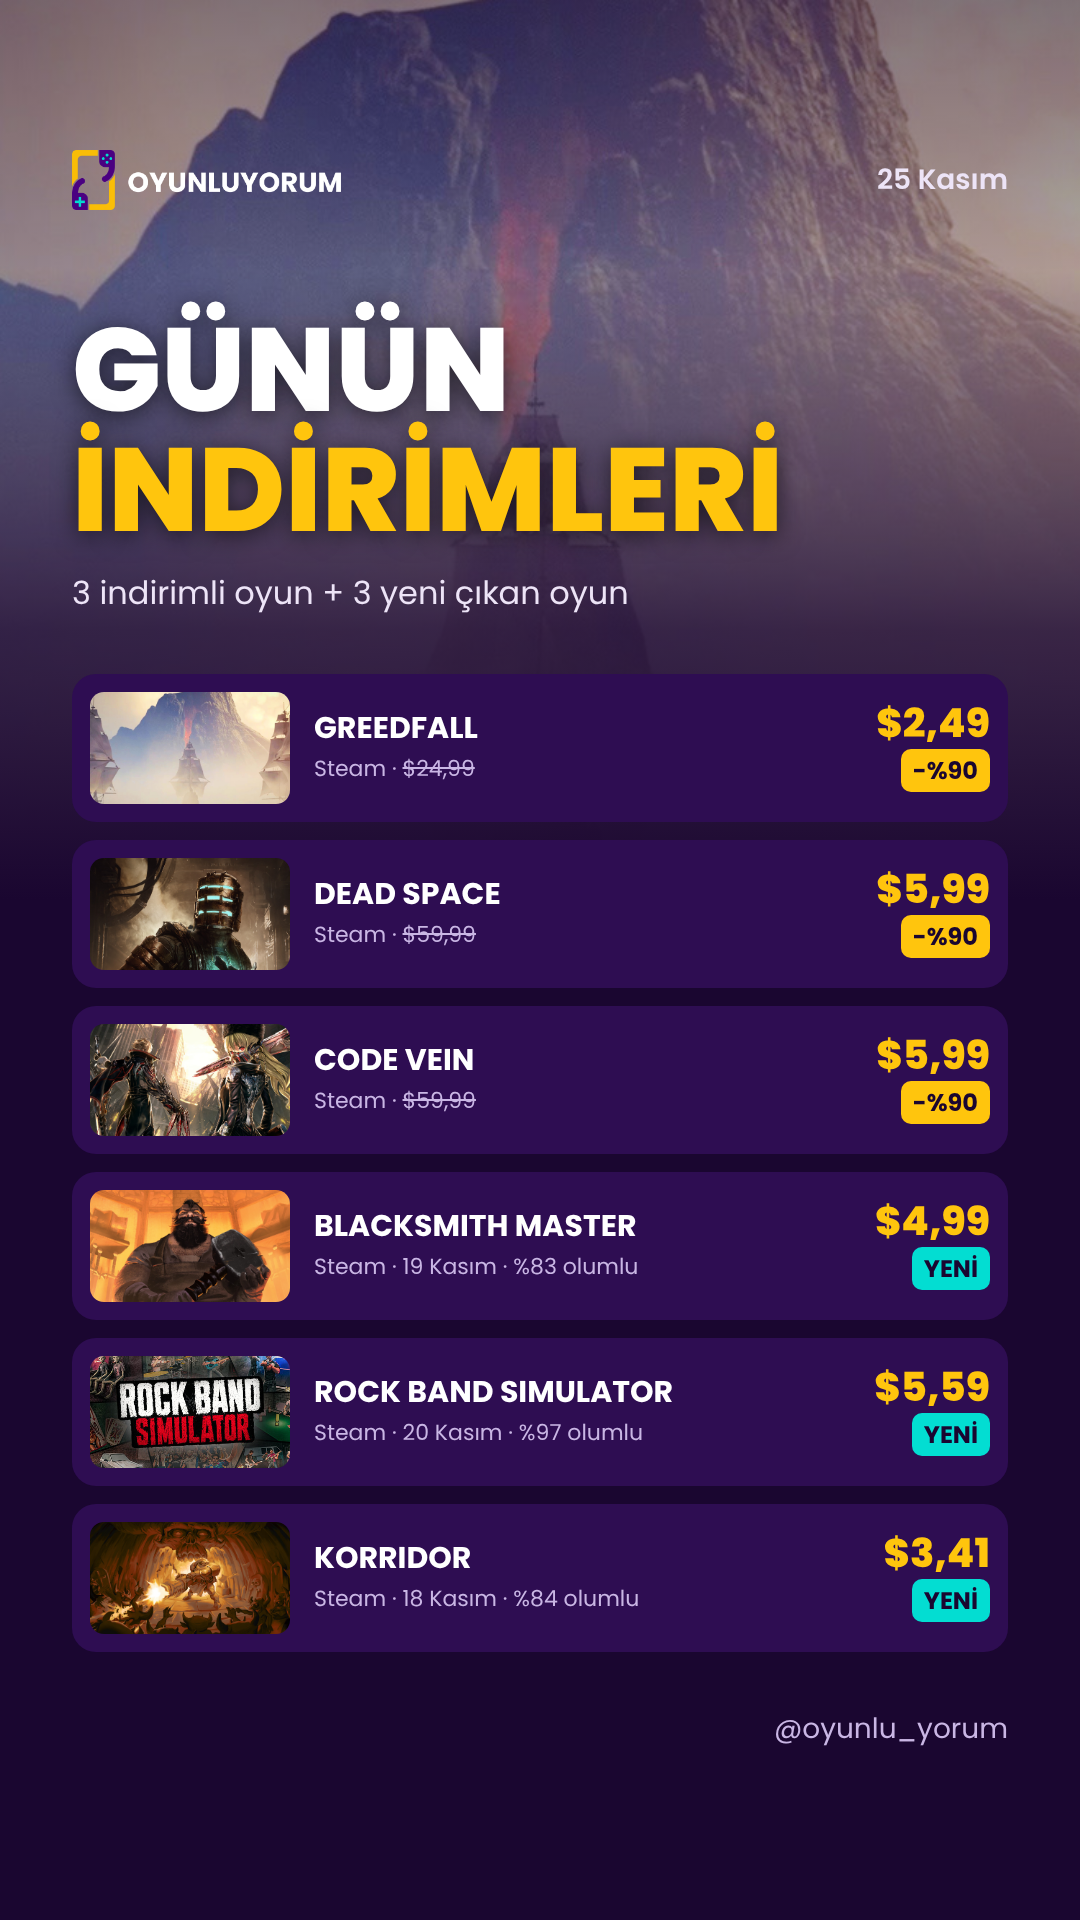
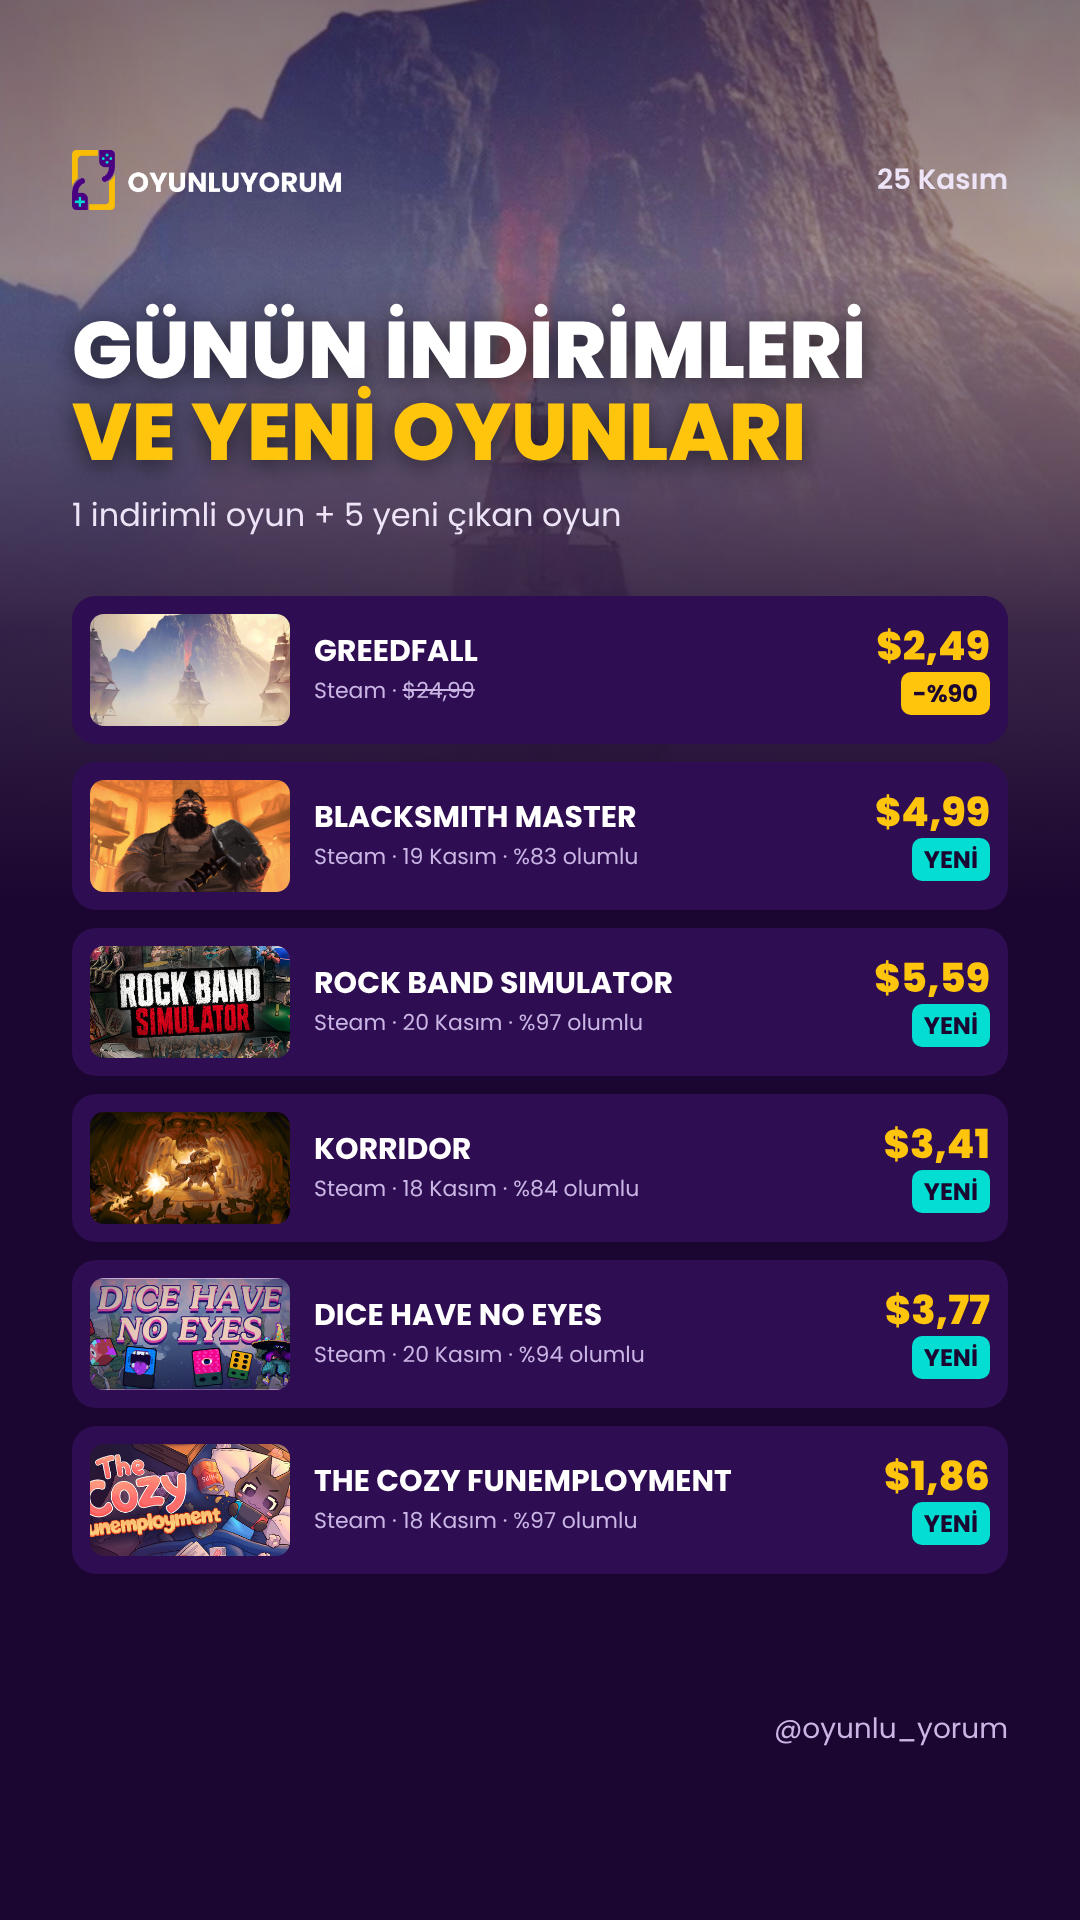
Karma story başlığı: Günün indirimleri ve yeni oyunları
Claude-Session: https://claude.ai/code/session_01Cfy9VhS6ocYTBfpm8yoTjW

Changed region(s): [[0.0611, 0.1562, 0.9472, 0.875]]

diff --git a/tools/render_story.py b/tools/render_story.py
@@ -14,6 +14,7 @@ story.json:
   ]
 }
 En fazla 6 satır. "free": true satırı sarı ve "Ücretsiz" yazılı çizilir.
+Satırlardan biri "new_release" ise başlık otomatik olarak "Günün indirimleri / ve yeni oyunları" olur.
 "new_release": true satırı yeni çıkan (indirimsiz) oyundur: "new" fiyatı ve "info" (örn. "23 Kasım · %99 olumlu")
 gösterilir, indirim rozeti yerine turkuaz "Yeni" rozeti çizilir; "old"/"cut" gerekmez.
 "atl": true (yeni tarihî en düşük fiyat) satırına kırmızı ikonlu "Tarihî en düşük" etiketi ve kırmızı çerçeve eklenir.
@@ -93,6 +94,15 @@ def row(r):
 <div style="padding:4px 12px;border-radius:10px;background:{ACCENT};color:{BG};font-family:{COND};font-weight:700;font-size:24px">-%{e(r.get("cut"))}</div></div></div>'''
 
 
+def title_html(d):
+    h1 = "margin:0;font-family:{};font-weight:800;line-height:1.02;text-transform:uppercase;text-shadow:0 4px 24px rgba(0,0,0,.6)".format(COND)
+    if any(r.get("new_release") for r in d["rows"][:6]):
+        # Karma story (indirim + yeni çıkan): iki satırlı, daha küçük başlık.
+        return (f'<h1 style="{h1};font-size:80px">Günün indirimleri<br>'
+                f'<span style="color:{ACCENT}">ve yeni oyunları</span></h1>')
+    return f'<h1 style="{h1};font-size:118px">Günün<br><span style="color:{ACCENT}">indirimleri</span></h1>'
+
+
 def build(d):
     rows = "\n".join(row(r) for r in d["rows"][:6])
     brand = (f'<img src="{uri(LOGO_FULL)}" alt="Oyunluyorum" style="height:60px;width:auto">' if LOGO_FULL.exists()
@@ -114,7 +124,7 @@ body{{margin:0}}</style></head><body>
 {brand}
 <div style="font-size:28px;font-weight:600;color:#EDE4F7">{e(d["date"])}</div></div>
 <div style="position:relative;display:flex;flex-direction:column;gap:20px;margin-top:60px">
-<h1 style="margin:0;font-family:{COND};font-weight:800;font-size:118px;line-height:1.02;text-transform:uppercase;text-shadow:0 4px 24px rgba(0,0,0,.6)">Günün<br><span style="color:{ACCENT}">indirimleri</span></h1>
+{title_html(d)}
 <p style="margin:0;font-size:32px;line-height:1.35;color:#EDE4F7">{e(d.get("subtitle"))}</p></div>
 <div style="position:relative;display:flex;flex-direction:column;gap:18px;margin-top:20px">
 {rows}</div>
